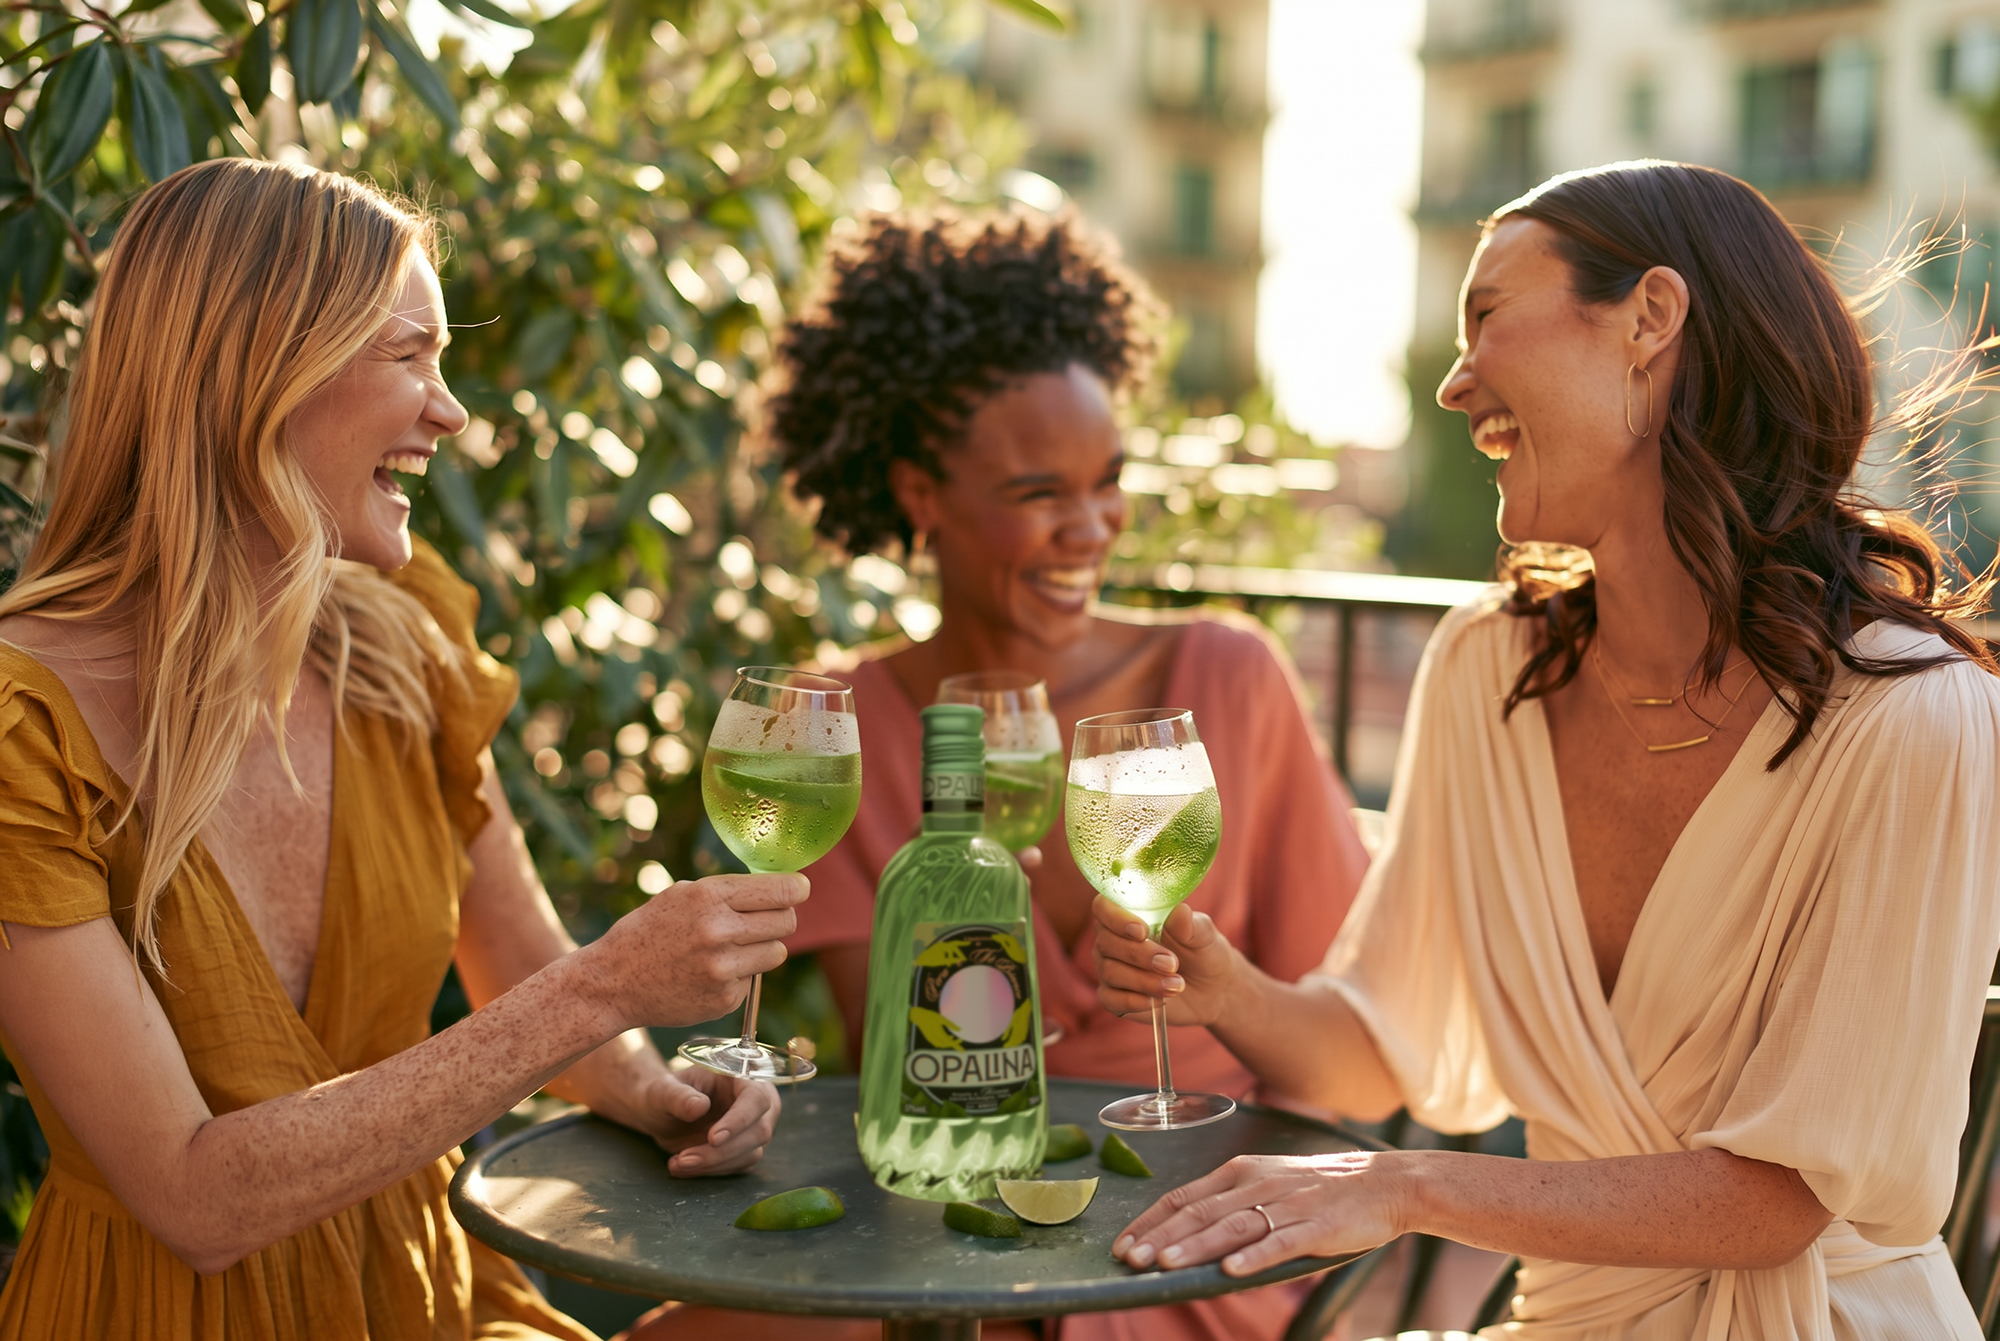
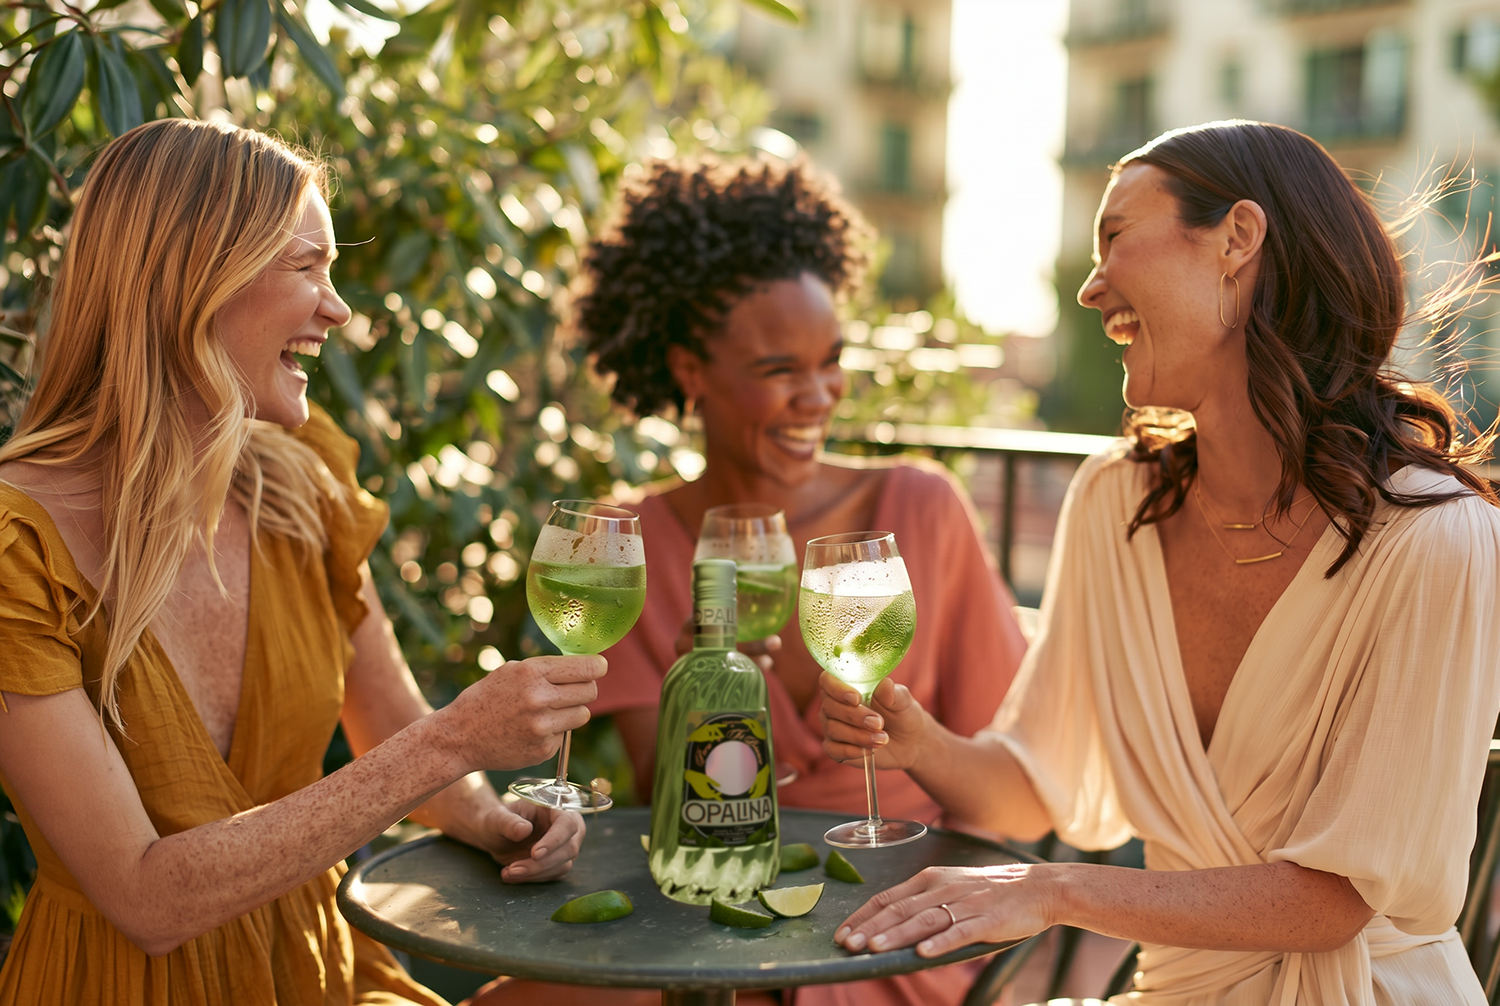
image update

Changed region(s): [[0.4293, 0.5239, 0.552, 0.9245]]

diff --git a/opalina/project-gallery.js b/opalina/project-gallery.js
@@ -67,8 +67,8 @@ const opalinaProjectImages = {
             images: [{
                 src: "../assets/Opalina8.png",
                 alt: "Friends sharing Opalina spritzes at a sunlit outdoor table",
-                width: 2000,
-                height: 1341
+                width: 1500,
+                height: 1006
             }]
         },
         {